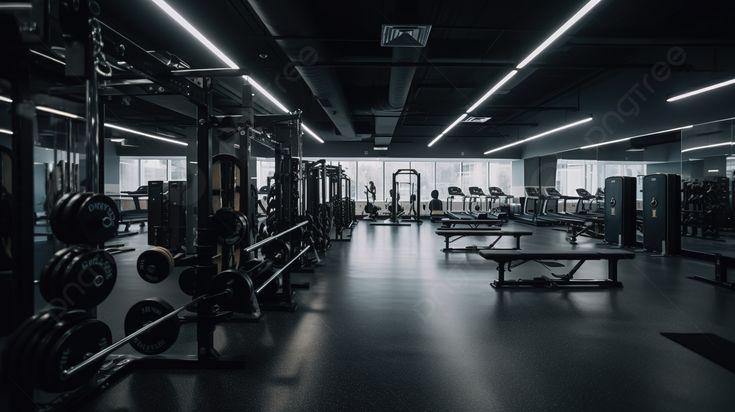
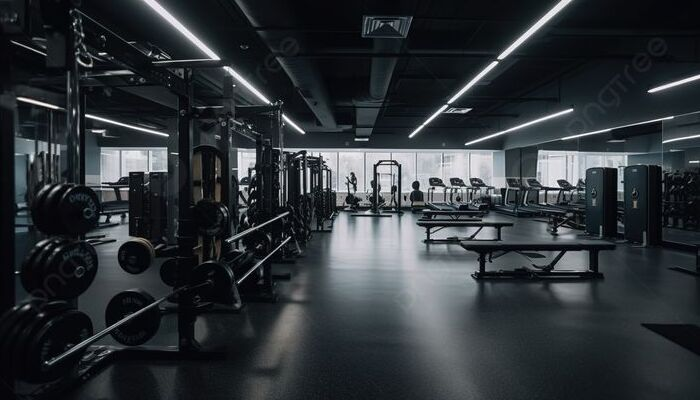
archivos de clases de coder

diff --git a/pages/acerca_de.html b/pages/acerca_de.html
@@ -4,7 +4,12 @@
     <meta charset="UTF-8" />
     <meta name="viewport" content="width=device-width, initial-scale=1.0" />
     <title>Acerca de Gold's Gym</title>
-    <link href="https://cdn.jsdelivr.net/npm/bootstrap@5.3.5/dist/css/bootstrap.min.css" rel="stylesheet" integrity="sha384-SgOJa3DmI69IUzQ2PVdRZhwQ+dy64/BUtbMJw1MZ8t5HZApcHrRKUc4W0kG879m7" crossorigin="anonymous">
+    <link
+      href="https://cdn.jsdelivr.net/npm/bootstrap@5.3.5/dist/css/bootstrap.min.css"
+      rel="stylesheet"
+      integrity="sha384-SgOJa3DmI69IUzQ2PVdRZhwQ+dy64/BUtbMJw1MZ8t5HZApcHrRKUc4W0kG879m7"
+      crossorigin="anonymous"
+    />
     <link rel="stylesheet" href="../style/style.css" />
   </head>
   <body>
@@ -29,14 +34,16 @@
       <section>
         <div>
           <img
-            src="../assets/img/pisoprinc.jpg"
+            src="../assets/img/carrusel4.webp"
             alt="sala de musculacion de un gimnasio en el que se puede ver mancuernas, bancos y paredes dibujadas"
             class="img_carrusel"
           />
         </div>
-        <div class="box_principal_equipamiento">
-          <div>
-            <h1>Hogar de los campeones</h1>
+        <div class="presentacion">
+          <div class="titulo_presentacion">
+            <h1 class="titulo_">Hogar de los campeones</h1>
+          </div>
+          <div class="texto_presentacion">
             <p>
               Fundado originalmente en Florida, como un centro de entrenamiento
               privado, nuestro gimnasio ha experimentado numerosas
@@ -62,8 +69,25 @@
               una meta, sino un estilo de vida.
             </p>
           </div>
-          <div>
-            <img
+        </div>
+        <div>
+          <div class="card text-bg-dark">
+            <img src="..." class="card-img" alt="...">
+            <div class="card-img-overlay">
+              <h2 class="card-title">Card title</h2>
+              <p class="card-text">This is a wider card with supporting text below as a natural lead-in to additional content. This content is a little bit longer.</p>
+              <p class="card-text"><small>Last updated 3 mins ago</small></p>
+            </div>
+          </div>
+          <div class="card text-bg-dark">
+            <img src="..." class="card-img" alt="...">
+            <div class="card-img-overlay">
+              <h2 class="card-title">Card title</h2>
+              <p class="card-text">This is a wider card with supporting text below as a natural lead-in to additional content. This content is a little bit longer.</p>
+              <p class="card-text"><small>Last updated 3 mins ago</small></p>
+            </div>
+          </div>
+          <img
               src="../assets/img/prensa_athletic.jpg"
               alt="maquina prensa para entrenar piernas en el gimnasio"
               class="img_principal_equipamiento"
@@ -73,7 +97,6 @@
               alt="soporte mancuernas y espejos en el gimnasio"
               class="img_principal_equipamiento"
             />
-          </div>
         </div>
       </section>
     </main>
@@ -131,6 +154,10 @@
         </div>
       </div>
     </footer>
-    <script src="https://cdn.jsdelivr.net/npm/bootstrap@5.3.5/dist/js/bootstrap.bundle.min.js" integrity="sha384-k6d4wzSIapyDyv1kpU366/PK5hCdSbCRGRCMv+eplOQJWyd1fbcAu9OCUj5zNLiq" crossorigin="anonymous"></script>
+    <script
+      src="https://cdn.jsdelivr.net/npm/bootstrap@5.3.5/dist/js/bootstrap.bundle.min.js"
+      integrity="sha384-k6d4wzSIapyDyv1kpU366/PK5hCdSbCRGRCMv+eplOQJWyd1fbcAu9OCUj5zNLiq"
+      crossorigin="anonymous"
+    ></script>
   </body>
 </html>

diff --git a/index.html b/index.html
@@ -29,13 +29,13 @@
       <div id="carouselFade" class="carousel slide carousel-fade">
         <div class="carousel-inner">
           <div class="carousel-item active">
-            <img src="./assets/img/carrusel3.jpg" class="d-block w-75" alt="...">
+            <img src="./assets/img/carrusel3.jpg" class="d-block w-100" alt="...">
           </div>
           <div class="carousel-item">
-            <img src="./assets/img/carrusel2.jpg" class="d-block w-75" alt="...">
+            <img src="./assets/img/carrusel2.jpg" class="d-block w-100" alt="...">
           </div>
           <div class="carousel-item">
-            <img src="./assets/img/carrusel1.jpg" class="d-block w-75" alt="...">
+            <img src="./assets/img/carrusel1.jpg" class="d-block w-100" alt="...">
           </div>
         </div>
         <button class="carousel-control-prev" type="button" data-bs-target="#carouselFade" data-bs-slide="prev">
@@ -54,36 +54,30 @@
         <div>
           <h1>Membresias & Pases</h1>
         </div>
-        <div class="box_membresias_pases">
-          <div>
-            <img
-              src="./assets/img/entrenamiento1.jpg"
-              alt="imagen de banco plano y mancuernero en gimnasio"
-              class="img_pases"
-            />
-            <p class="membresias_pases">
-              Nuestras membresías te brindan acceso exclusivo a un mundo de
+        <div class="container-cards">
+        <div class="card" style="width: 25rem; height: 35rem;">
+          <img src="./assets/img/coach2.jpg" class="card-img-top" alt="imagen de banco plano y mancuernero en gimnasio">
+          <div class="card-body">
+            <h5 class="card-title">Membresias</h5>
+            <p class="card-text">Nuestras membresías te brindan acceso exclusivo a un mundo de
               oportunidades de fitness. Tanto si eres un profesional
               experimentado como si apenas estás comenzando tu camino hacia el
-              fitness, tenemos la opción de membresía perfecta para ti.
-            </p>
+              fitness, tenemos la opción de membresía perfecta para ti.</p>
+            <a href="#" class="boton-inscripcion">Empieza ahora!</a>
           </div>
-          <div>
-            <img
-              src="./assets/img/entrenamiento3.jpg"
-              alt="foto de un pie pisando un disco de fundicion y dos mancuernas"
-              class="img_pases"
-            />
-            <p class="membresias_pases">
-              Ya sea que esté de visita en la ciudad o simplemente quiera probar
+        </div>
+        <div class="card" style="width: 25rem; height: 35rem;">
+          <img src="./assets/img/coach3.jpg" class="card-img-top" alt="foto de un pie pisando un disco de fundicion y dos mancuernas">
+          <div class="card-body">
+            <h5 class="card-title">Pases</h5>
+            <p class="card-text">Ya sea que esté de visita en la ciudad o simplemente quiera probar
               nuestras instalaciones, nuestros pases le ofrecen una muestra de
               Gold's gym. Elija entre nuestros pases de un día, una semana o un
               mes y acceda a nuestro equipo de vanguardia y a nuestra acogedora
-              comunidad.
-            </p>
+              comunidad.</p>
+            <a href="#" class="boton-inscripcion">Empieza ahora!</a>
           </div>
         </div>
-      </section>
     </main>
     <footer>
       <div class="footer">

diff --git a/style/style.css b/style/style.css
@@ -101,7 +101,7 @@ p {
 }
 h1 {
   font-family: "Raleway", sans-serif;
-  font-size: 2em;
+  font-size: 2rem;
   color: #cc8d1a;
   text-align: center;
   padding: 5rem;
@@ -112,9 +112,12 @@ h2 {
   text-align: center;
   padding: 5rem;
 }
+.titulo_{
+  font-size: 3rem;
+}
 .img_carrusel {
   border-radius: 1rem;
-  height: 1000px;
+  height: 100vh;
 }
 .carousel-item {
   display: flex;
@@ -124,40 +127,44 @@ h2 {
   display: flex;
   justify-content: center;
 }
-
-.img_pases {
-  width: 300px;
-  height: 500px;
-  border-radius: 1rem;
-}
-.box_principal_equipamiento {
+.container-cards {
   display: flex;
-  flex-direction: column;
-  align-items: center;
-  text-align: center;
-  padding: 1rem;
+  justify-content: space-evenly;
 }
-.img_principal_equipamiento {
-  width: 500px;
-  height: 500px;
-  margin: 50px;
-  border-radius: 1rem;
+.card {
+  border-radius: 12rem;
+  border: none;
+  margin-bottom: 5rem;
 }
-.tarjetas_de_pases {
+.card-body {
+  background-color: goldenrod;
+}
+.card-text {
+  color: black;
+  border-radius: 12rem;
+}
+.boton-inscripcion {
+  background-color: black;
+  padding: 0.5rem;
+  border-radius: 15px;
+}
+.boton-inscripcion:hover {
+  background-color: white;
+  color: black;
+}
+.presentacion {
   display: flex;
-  align-content: space-around;
-  padding: 0 1rem;
+  margin-top: 10vh;
 }
-.pases {
+.titulo_presentacion {
   display: flex;
-  flex-wrap: wrap;
-  justify-content: center;
+  margin-left: 25vh;
 }
-.pass {
-  width: 400px;
-  height: 600px;
-  margin: 0 1rem;
-  border-radius: 1rem;
+.texto_presentacion {
+  display: flex;
+  padding: 5rem;
+  margin-left: 20vh;
+  text-align: left;
 }
 .box_contacto {
   display: flex;
